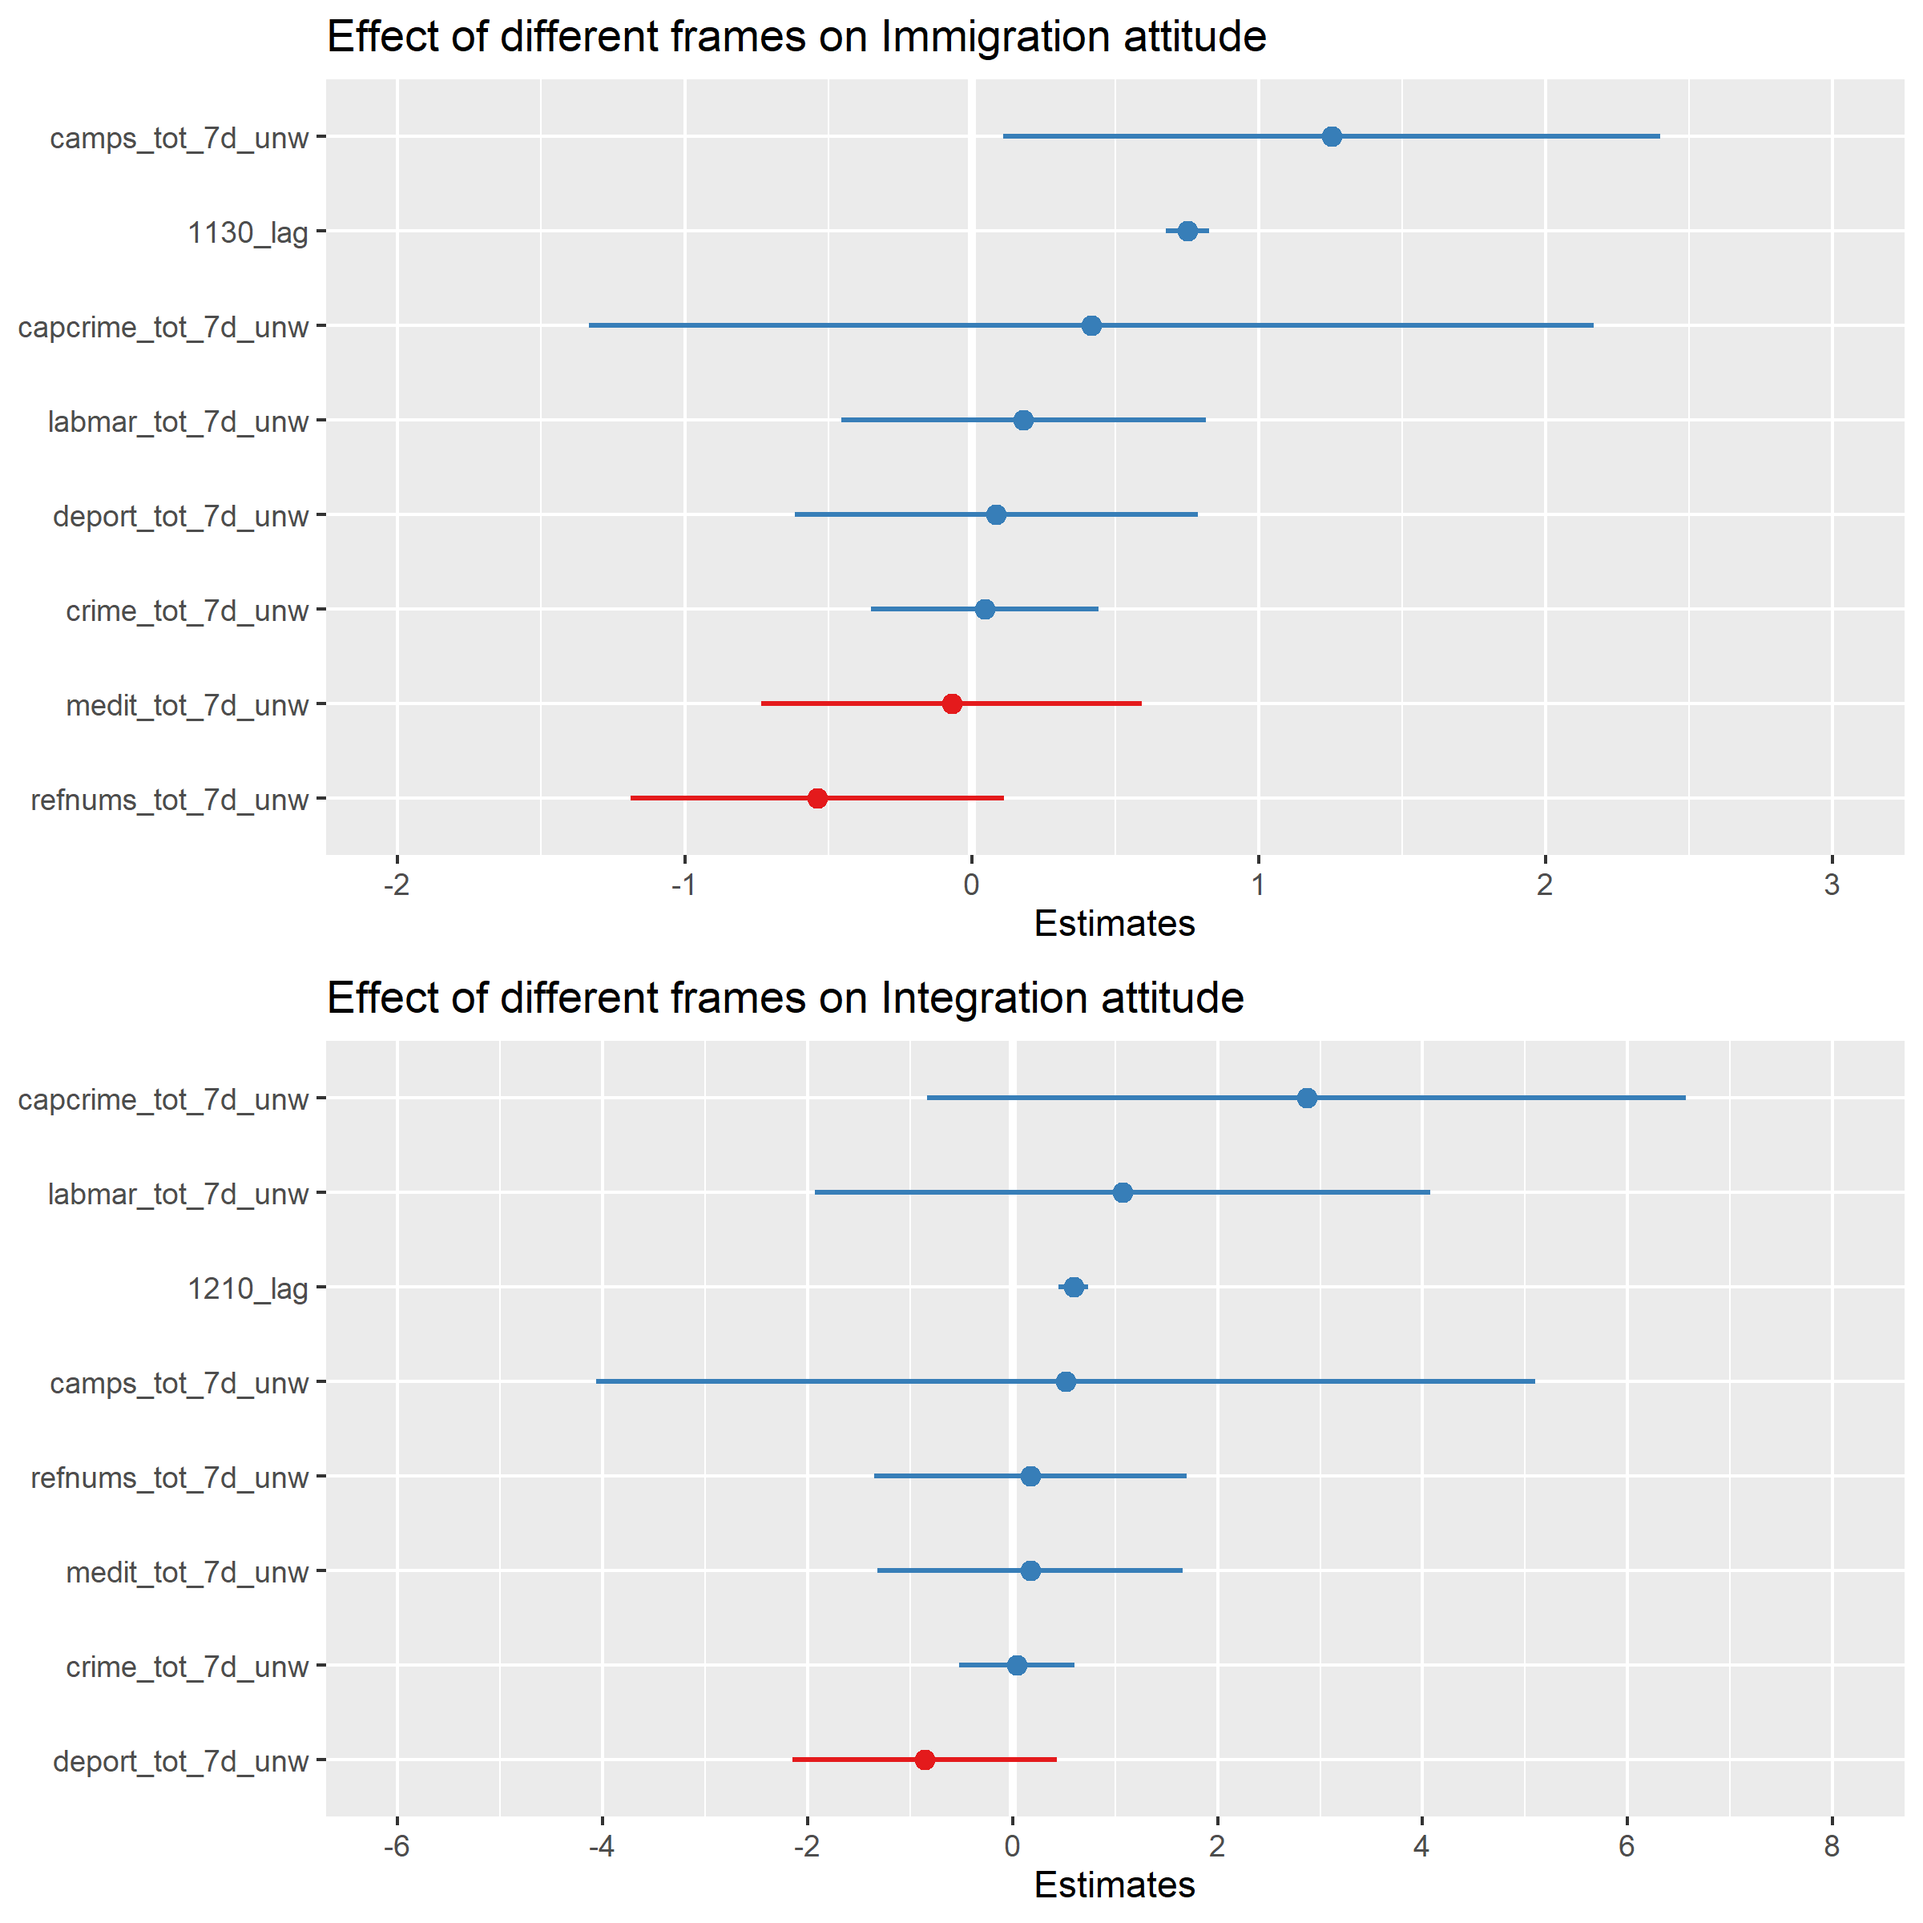
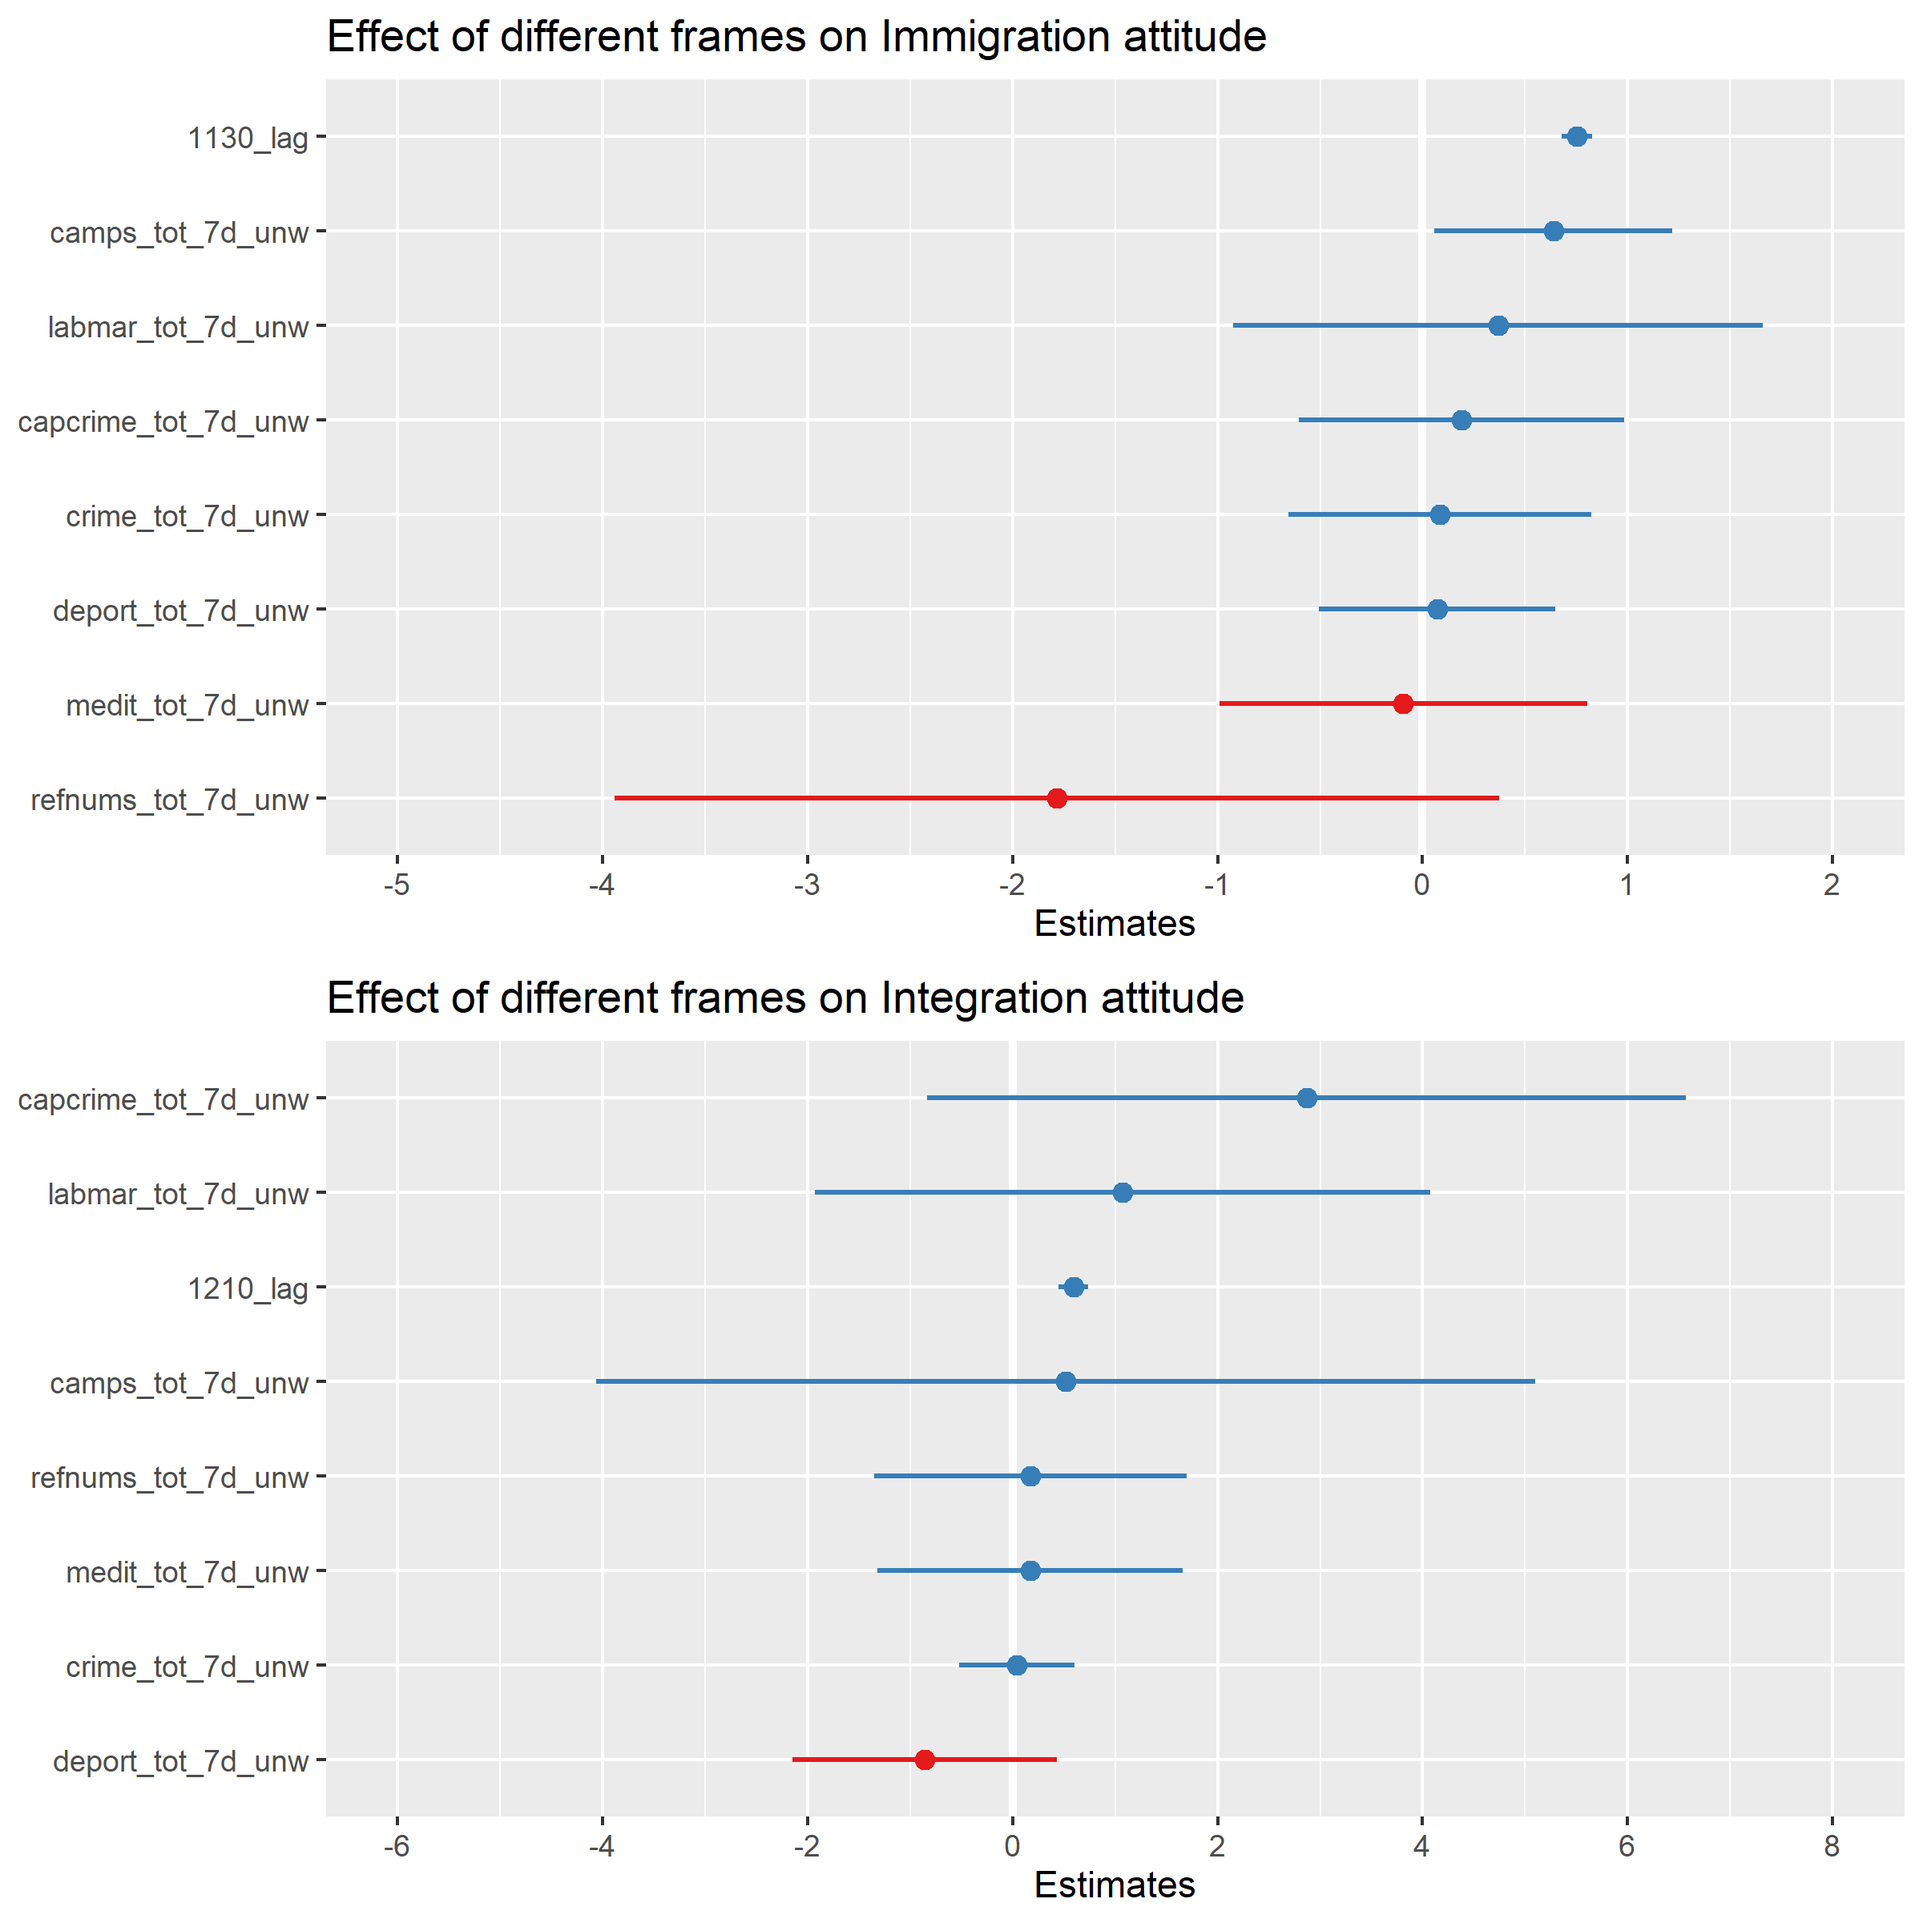
Standardise individual level model inputs

diff --git a/paper/imm_unw.tex b/paper/imm_unw.tex
@@ -1,6 +1,6 @@
 
 % Table created by stargazer v.5.2.2 by Marek Hlavac, Harvard University. E-mail: hlavac at fas.harvard.edu
-% Date and time: Mi, Sep 29, 2021 - 08:40:49
+% Date and time: Mi, Sep 29, 2021 - 09:47:46
 \begin{table}[!htbp] \centering 
   \caption{Individual-level Model} 
   \label{} 
@@ -15,32 +15,53 @@
  `1130\_lag` & 0.752$^{***}$ &  \\ 
   & (0.038) &  \\ 
   & & \\ 
+ scale(crime\_tot\_7d\_unw, center = T, scale = T) & 0.084 &  \\ 
+  & (0.376) &  \\ 
+  & & \\ 
+ scale(capcrime\_tot\_7d\_unw, center = T, scale = T) & 0.189 &  \\ 
+  & (0.404) &  \\ 
+  & & \\ 
+ scale(refnums\_tot\_7d\_unw, center = T, scale = T) & $-$1.785 &  \\ 
+  & (1.096) &  \\ 
+  & & \\ 
+ scale(camps\_tot\_7d\_unw, center = T, scale = T) & 0.637$^{**}$ &  \\ 
+  & (0.296) &  \\ 
+  & & \\ 
+ scale(medit\_tot\_7d\_unw, center = T, scale = T) & $-$0.095 &  \\ 
+  & (0.456) &  \\ 
+  & & \\ 
+ scale(labmar\_tot\_7d\_unw, center = T, scale = T) & 0.368 &  \\ 
+  & (0.656) &  \\ 
+  & & \\ 
+ scale(deport\_tot\_7d\_unw, center = T, scale = T) & 0.070 &  \\ 
+  & (0.293) &  \\ 
+  & & \\ 
  `1210\_lag` &  & 0.593$^{***}$ \\ 
   &  & (0.073) \\ 
   & & \\ 
- crime\_tot\_7d\_unw & 0.045 & 0.039 \\ 
-  & (0.202) & (0.285) \\ 
+ crime\_tot\_7d\_unw &  & 0.039 \\ 
+  &  & (0.285) \\ 
   & & \\ 
- capcrime\_tot\_7d\_unw & 0.417 & 2.868 \\ 
-  & (0.890) & (1.866) \\ 
+ capcrime\_tot\_7d\_unw &  & 2.868 \\ 
+  &  & (1.866) \\ 
   & & \\ 
- refnums\_tot\_7d\_unw & $-$0.538 & 0.173 \\ 
-  & (0.330) & (0.770) \\ 
+ refnums\_tot\_7d\_unw &  & 0.173 \\ 
+  &  & (0.770) \\ 
   & & \\ 
- camps\_tot\_7d\_unw & 1.253$^{**}$ & 0.516 \\ 
-  & (0.582) & (2.309) \\ 
+ camps\_tot\_7d\_unw &  & 0.516 \\ 
+  &  & (2.309) \\ 
   & & \\ 
- medit\_tot\_7d\_unw & $-$0.070 & 0.169 \\ 
-  & (0.337) & (0.751) \\ 
+ medit\_tot\_7d\_unw &  & 0.169 \\ 
+  &  & (0.751) \\ 
   & & \\ 
- labmar\_tot\_7d\_unw & 0.181 & 1.071 \\ 
-  & (0.323) & (1.513) \\ 
+ labmar\_tot\_7d\_unw &  & 1.071 \\ 
+  &  & (1.513) \\ 
   & & \\ 
- deport\_tot\_7d\_unw & 0.086 & $-$0.860 \\ 
-  & (0.357) & (0.650) \\ 
+ deport\_tot\_7d\_unw &  & $-$0.860 \\ 
+  &  & (0.650) \\ 
   & & \\ 
- Constant & 0.399$^{***}$ & $-$0.671$^{***}$ \\ 
-  & (0.090) & (0.166) \\ 
+ Constant & $-$0.122 & $-$0.671$^{***}$ \\ 
+  & (0.642) & (0.166) \\ 
   & & \\ 
 \hline \\[-1.8ex] 
 Observations & 331 & 111 \\ 
